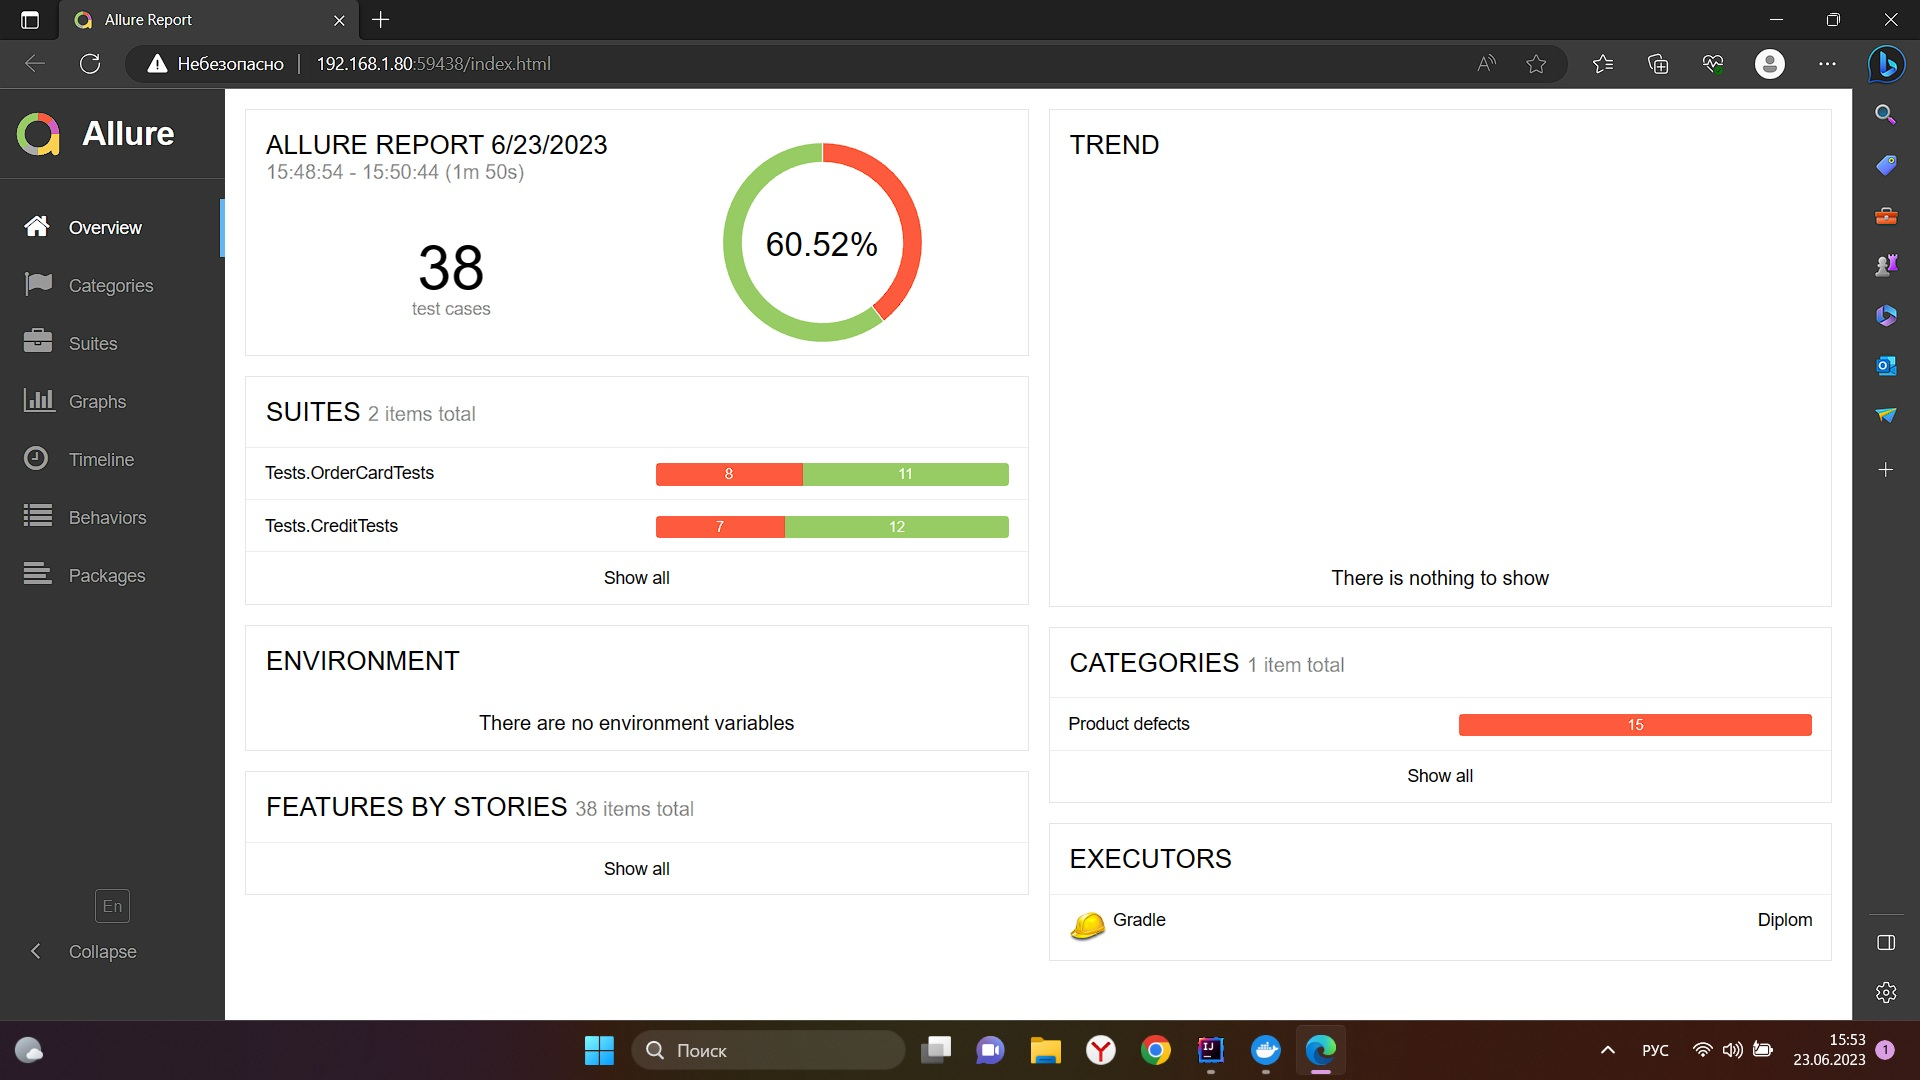
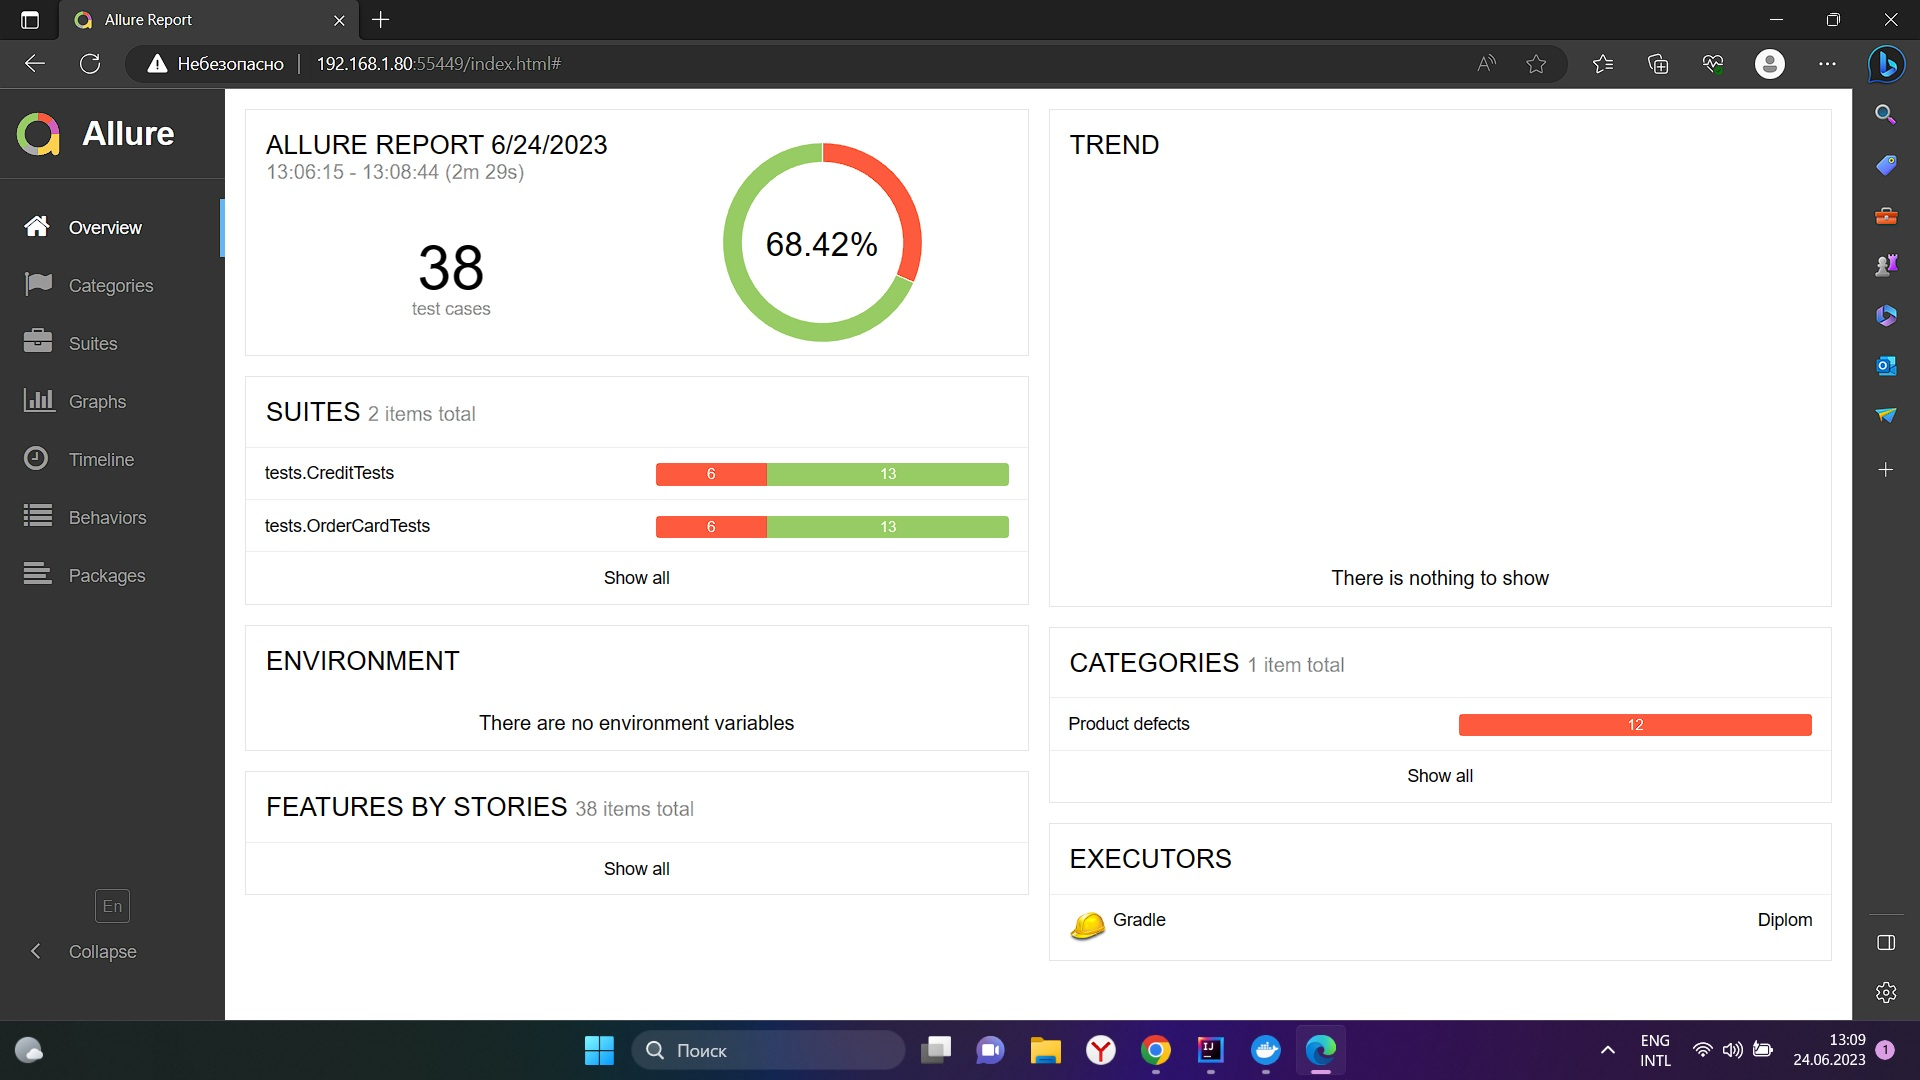
Change tests and reports

diff --git a/src/test/java/data/Data.java b/src/test/java/data/Data.java
@@ -1,4 +1,4 @@
-package Data;
+package data;
 
 import com.github.javafaker.Faker;
 import lombok.Value;
@@ -6,25 +6,23 @@ import lombok.Value;
 import java.time.LocalDate;
 import java.time.format.DateTimeFormatter;
 import java.util.Locale;
-import java.lang.Math;
 
 public class Data{
 
     public static CardInfo getApprovedCard() {
-        return new CardInfo("4444444444444441", "08", "23", "Ivan Ivanov", "888");
+        return new CardInfo("4444444444444441", getShiftedMonth(2), getShiftedYear(0), generateValidHolder(), generateValidCVC());
     }
 
     public static CardInfo getDeclinedCard() {
-        return new CardInfo("4444444444444442", "09", "24", "Ivan Ivanov", "777");
+        return new CardInfo("4444444444444442", getShiftedMonth(3), getShiftedYear(1), generateValidHolder(), generateValidCVC());
     }
 
     public static CardInfo getEmptyCard() {
         return new CardInfo("", "", "", "", "");
     }
 
-    public static String getShiftedMonth(){
-        int shift = (int) (Math.random() * 10);
-        return LocalDate.now().plusMonths(shift).format(DateTimeFormatter.ofPattern("MM"));
+    public static String getShiftedMonth(int monthCount) {
+        return LocalDate.now().plusMonths(monthCount).format(DateTimeFormatter.ofPattern("MM"));
     }
 
     public static String getShiftedYear(int yearCount){
@@ -34,7 +32,7 @@ public class Data{
     public static CardInfo getNumberCard15Symbols() {
         Faker faker = new Faker();
         String holder = faker.name().firstName() + " " + faker.name().lastName();
-        String month = getShiftedMonth();
+        String month = getShiftedMonth(1);
         String year = getShiftedYear(1);
         String cvv = faker.number().digits(3);
         String number = faker.number().digits(15);
@@ -44,7 +42,7 @@ public class Data{
     public static CardInfo getCardNotInDatabase() {
         Faker faker = new Faker();
         String holder = faker.name().firstName() + " " + faker.name().lastName();
-        String month = getShiftedMonth();
+        String month = getShiftedMonth(1);
         String year = getShiftedYear(1);
         String cvv = faker.number().digits(3);
         return new CardInfo("1444444444444444", month, year, holder, cvv);
@@ -86,7 +84,7 @@ public class Data{
     public static CardInfo getCardYear1Symbol() {
         Faker faker = new Faker();
         String holder = faker.name().firstName() + " " + faker.name().lastName();
-        String month = getShiftedMonth();
+        String month = getShiftedMonth(1);
         String year = faker.number().digit();
         String cvv = faker.number().digits(3);
         return new CardInfo("4444444444444441", month, year, holder, cvv);
@@ -95,7 +93,7 @@ public class Data{
     public static CardInfo getCardYearOverThisYearOn6() {
         Faker faker = new Faker();
         String holder = faker.name().firstName() + " " + faker.name().lastName();
-        String month = getShiftedMonth();
+        String month = getShiftedMonth(1);
         String year = getShiftedYear(6);
         String cvv = faker.number().digits(3);
         return new CardInfo("4444444444444441", month, year, holder, cvv);
@@ -104,7 +102,7 @@ public class Data{
     public static CardInfo getCardYearUnderThisYear() {
         Faker faker = new Faker();
         String holder = faker.name().firstName() + " " + faker.name().lastName();
-        String month = getShiftedMonth();
+        String month = getShiftedMonth(1);
         String year = getShiftedYear(-1);
         String cvv = faker.number().digits(3);
         return new CardInfo("4444444444444441", month, year, holder, cvv);
@@ -113,7 +111,7 @@ public class Data{
     public static CardInfo getCardYear00() {
         Faker faker = new Faker();
         String holder = faker.name().firstName() + " " + faker.name().lastName();
-        String month = getShiftedMonth();
+        String month = getShiftedMonth(1);
         String cvv = faker.number().digits(3);
         return new CardInfo("4444444444444441", month, "00", holder, cvv);
     }
@@ -121,7 +119,7 @@ public class Data{
     public static CardInfo getCardCvv1Symbol() {
         Faker faker = new Faker();
         String holder = faker.name().firstName() + " " + faker.name().lastName();
-        String month = getShiftedMonth();
+        String month = getShiftedMonth(1);
         String year = getShiftedYear(1);
         String cvv = faker.number().digits(1);
         return new CardInfo("4444444444444441", month, year, holder, cvv);
@@ -130,7 +128,7 @@ public class Data{
     public static CardInfo getCardCvv2Symbols() {
         Faker faker = new Faker();
         String holder = faker.name().firstName() + " " + faker.name().lastName();
-        String month = getShiftedMonth();
+        String month = getShiftedMonth(1);
         String year = getShiftedYear(1);
         String cvv = faker.number().digits(2);
         return new CardInfo("4444444444444441", month, year, holder, cvv);
@@ -139,7 +137,7 @@ public class Data{
     public static CardInfo getCardHolder1Word() {
         Faker faker = new Faker();
         String holder = faker.name().firstName();
-        String month = getShiftedMonth();
+        String month = getShiftedMonth(1);
         String year = getShiftedYear(1);
         String cvv = faker.number().digits(3);
         return new CardInfo("4444444444444441", month, year, holder, cvv);
@@ -148,7 +146,7 @@ public class Data{
     public static CardInfo getCardHolderCirillic() {
         Faker faker = new Faker(new Locale("ru"));
         String holder = faker.name().firstName() + " " + faker.name().lastName();
-        String month = getShiftedMonth();
+        String month = getShiftedMonth(1);
         String year = getShiftedYear(1);
         String cvv = faker.number().digits(3);
         return new CardInfo("4444444444444441", month, year, holder, cvv);
@@ -157,7 +155,7 @@ public class Data{
     public static CardInfo getCardHolderNumeric() {
         Faker faker = new Faker();
         String holder = faker.name().firstName() + " " + faker.number().digit();
-        String month = getShiftedMonth();
+        String month = getShiftedMonth(1);
         String year = getShiftedYear(1);
         String cvv = faker.number().digits(3);
         return new CardInfo("4444444444444441", month, year, holder, cvv);
@@ -166,10 +164,20 @@ public class Data{
     public static CardInfo getCardSpecialSymbols() {
         Faker faker = new Faker();
         String holder = faker.name().firstName() + " %$ * &";
-        String month = getShiftedMonth();
+        String month = getShiftedMonth(1);
         String year = getShiftedYear(1);
         String cvv = faker.number().digits(3);
         return new CardInfo("4444444444444441", month, year, holder, cvv);
+    }
+
+    public static String generateValidHolder() {
+        Faker faker = new Faker();
+        return faker.name().fullName().toUpperCase();
+    }
+
+    public static String generateValidCVC() {
+        Faker faker = new Faker();
+        return faker.numerify("###");
     }
     @Value
     public static class CardInfo {

diff --git a/src/test/java/pages/OrderCard.java b/src/test/java/pages/OrderCard.java
@@ -1,8 +1,10 @@
-package Pages;
+package pages;
 
 import com.codeborne.selenide.ElementsCollection;
 import com.codeborne.selenide.SelenideElement;
-import Data.Data;
+import data.Data;
+
+import java.time.Duration;
 
 import static com.codeborne.selenide.CollectionCondition.size;
 import static com.codeborne.selenide.Selenide.$;
@@ -40,11 +42,11 @@ public class OrderCard {
     }
 
     public void waitNotificationApproved() {
-        success.shouldBe(visible);
+        success.shouldBe(visible, Duration.ofSeconds(15));
     }
 
     public void waitNotificationFailure() {
-        error.shouldBe(visible);
+        error.shouldBe(visible, Duration.ofSeconds(15));
     }
 
     public void waitNotificationWrongFormat() {

diff --git a/src/test/java/pages/Credit.java b/src/test/java/pages/Credit.java
@@ -1,7 +1,7 @@
-package Pages;
+package pages;
 import com.codeborne.selenide.ElementsCollection;
 import com.codeborne.selenide.SelenideElement;
-import Data.Data;
+import data.Data;
 
 import java.time.Duration;
 
@@ -42,10 +42,10 @@ public class Credit {
         buttonNext.click();
     }
 
-    public void waitNotificationApproved() {success.shouldBe(visible);}
+    public void waitNotificationApproved() {success.shouldBe(visible, Duration.ofSeconds(15));}
 
     public void waitNotificationFailure() {
-        error.shouldBe(visible);
+        error.shouldBe(visible,Duration.ofSeconds(15));
     }
 
     public void waitNotificationWrongFormat() {

diff --git a/src/test/java/tests/OrderCardTests.java b/src/test/java/tests/OrderCardTests.java
@@ -1,11 +1,10 @@
-package Tests;
+package tests;
 import io.qameta.allure.selenide.AllureSelenide;
 import org.junit.jupiter.api.*;
-import Data.Data;
-import Data.SQL;
-import Pages.Credit;
-import Pages.OrderCard;
-import Pages.Start;
+import data.Data;
+import data.SQL;
+import pages.OrderCard;
+import pages.Start;
 import com.codeborne.selenide.logevents.SelenideLogger;
 
 import static com.codeborne.selenide.Selenide.open;

diff --git a/src/test/java/tests/CreditTests.java b/src/test/java/tests/CreditTests.java
@@ -1,10 +1,10 @@
-package Tests;
+package tests;
 import io.qameta.allure.selenide.AllureSelenide;
 import org.junit.jupiter.api.*;
-import Data.Data;
-import Data.SQL;
-import Pages.Start;
-import Pages.Credit;
+import data.Data;
+import data.SQL;
+import pages.Start;
+import pages.Credit;
 import com.codeborne.selenide.logevents.SelenideLogger;
 
 import static com.codeborne.selenide.Selenide.open;

diff --git a/src/test/java/pages/Start.java b/src/test/java/pages/Start.java
@@ -1,4 +1,4 @@
-package Pages;
+package pages;
 import com.codeborne.selenide.SelenideElement;
 
 import static com.codeborne.selenide.Selectors.byText;

diff --git a/src/test/java/data/SQL.java b/src/test/java/data/SQL.java
@@ -1,4 +1,4 @@
-package Data;
+package data;
 
 import lombok.val;
 import org.apache.commons.dbutils.QueryRunner;

diff --git a/Docs/Report.md b/Docs/Report.md
@@ -9,8 +9,8 @@
 - PostgreSQL
 
 Всего составлено 38 тестов, из них:
-- Успешных - 23 (60.52)
-- Неуспешных - 15 (39.48)
+- Успешных - 26 (68.42)
+- Неуспешных - 12 (31.58)
 - Проигнорировано: 0
 
 #### Отчет по результатам тестирования Gradle:
@@ -26,10 +26,10 @@
 ![Allure.jpg](Allure.jpg)
 
 Отчёт Suites. CreditPage:
-![AllureCredit.jpg](AllureCredit.jpg)
+![AllureCreditTests.jpg](AllureCreditTests.jpg)
 
 Отчёт Suites. PaymentTest:
-![AllureOrder.jpg](AllureOrder.jpg)
+![AllureOrderTests.jpg](AllureOrderTests.jpg)
 
 ### Общие рекомендации
 
